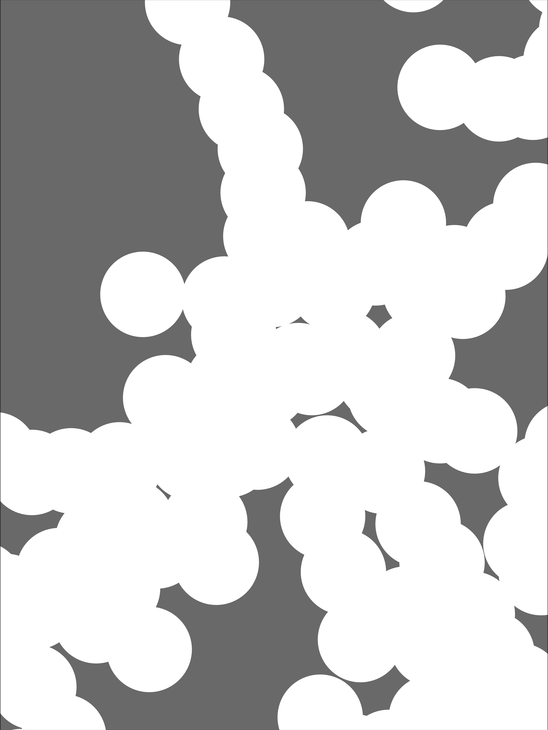
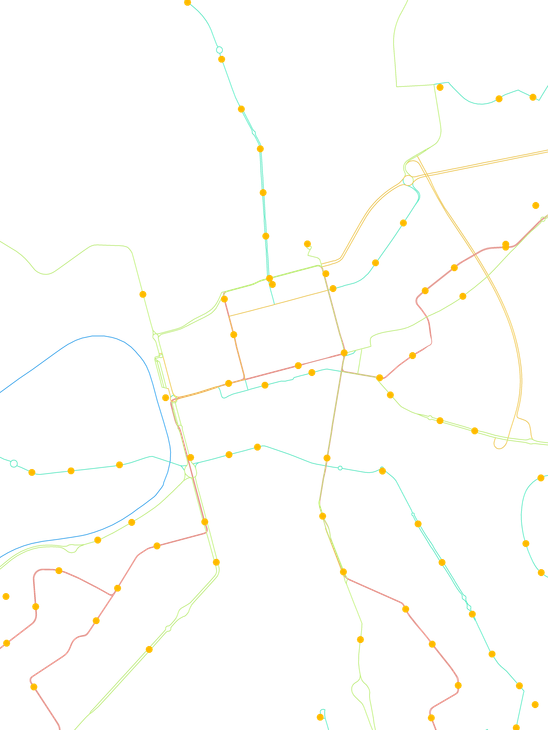
Fix kollektivtrafik layer. Add version.

diff --git a/src/components/pages/DebugPage.ts b/src/components/pages/DebugPage.ts
@@ -53,13 +53,13 @@ export class DebugPage extends Page {
 		this.addButton(x, y, w, h, "Add light", Color.Green700, () => {
 			this.socket.send({
 				type: "MapLightRequest",
-				Name: "something",
+				name: "something",
 				northing: (129411.4 + 134211.4) / 2,
 				easting: (6495015.262 + 6498915.262) / 2,
-				Height: 200.0,
-				Color: "#ffffff",
-				Typeofmessage: "add",
-				Enable: true,
+				height: 200.0,
+				color: "#ffffff",
+				typeofmessage: "add",
+				enable: true,
 			});
 		});
 
@@ -67,13 +67,13 @@ export class DebugPage extends Page {
 		this.addButton(x, y, w, h, "Remove light", Color.Red800, () => {
 			this.socket.send({
 				type: "MapLightRequest",
-				Name: "something",
+				name: "something",
 				northing: (129411.4 + 134211.4) / 2,
 				easting: (6495015.262 + 6498915.262) / 2,
-				Height: 200.0,
-				Color: "#ffffff",
-				Typeofmessage: "remove",
-				Enable: true,
+				height: 200.0,
+				color: "#ffffff",
+				typeofmessage: "delete",
+				enable: true,
 			});
 		});
 

diff --git a/src/utils/constants.ts b/src/utils/constants.ts
@@ -1,4 +1,4 @@
-export const VERSION: string = "v0.0.0";
+export const VERSION: string = "v1.1";
 export const SCALE: number = 1.0;
 
 export const IDLE_TIME = 10*60;

diff --git a/data/thumbnail_generator.py b/data/thumbnail_generator.py
@@ -38,9 +38,10 @@ image_groups = [
     fetch_images(["rasters/flood"]),
 ]
 datasets = [
-    read_csv("rasters/dataset_color.csv"),
-    read_csv("rasters/dataset_layers.csv"),
-    read_csv("rasters/dataset_flood.csv"),
+    # read_csv("rasters/dataset_color.csv"),
+    # read_csv("rasters/dataset_layers.csv"),
+    # read_csv("rasters/dataset_flood.csv"),
+    read_csv("rasters/dataset_temp.csv"),
 ]
 datasets = sum(datasets, [])
 
@@ -74,11 +75,10 @@ for args in datasets:
         print(f"Cannot find texture: '{texture}'")
 print()
 
-for name in image_map:
-    if name not in found_textures_names:
-        print(name)
-        found_textures[name] = image_map[name]
-        missing_textures.add(name)
+# for name in image_map:
+#     if name not in found_textures_names:
+#         found_textures[name] = image_map[name]
+#         missing_textures.add(name)
 
 # Create output folder
 if not os.path.exists("output"):
@@ -96,7 +96,7 @@ for key in folders:
 
 # Thumbnail image magic
 for name, path in found_textures.items():
-    print(f"Converting thumbnail for {name}...")
+    print(f"Generating thumbnail for {name}...")
     image = Image.open(path)
 
     # Setting the points for cropped image
@@ -123,7 +123,7 @@ for name, path in found_textures.items():
 
 # Map image magic
 for name, path in found_textures.items():
-    print(f"Converting map image for {name}...")
+    print(f"Generating map image for {name}...")
     image = Image.open(path)
 
     # Setting the points for cropped image
